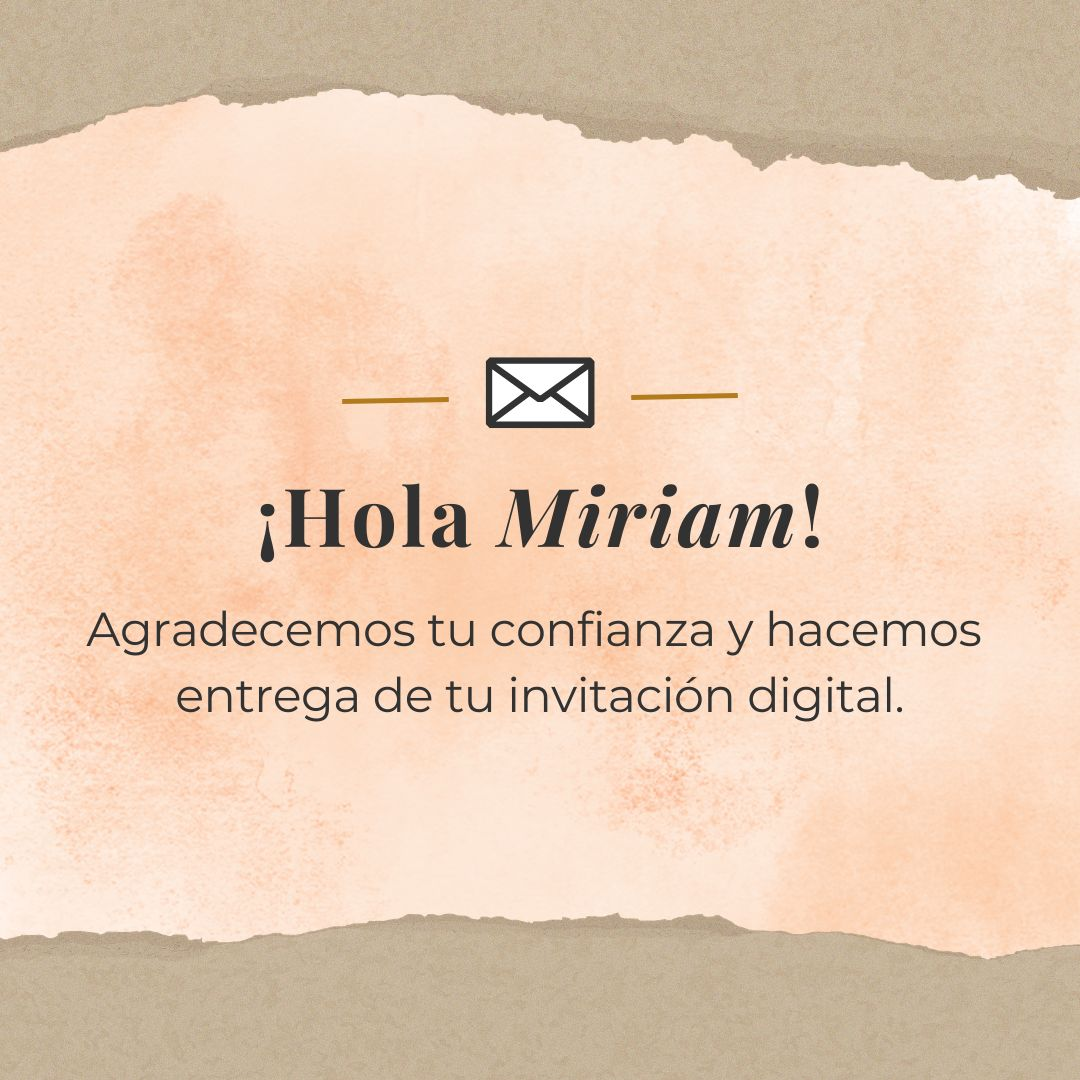
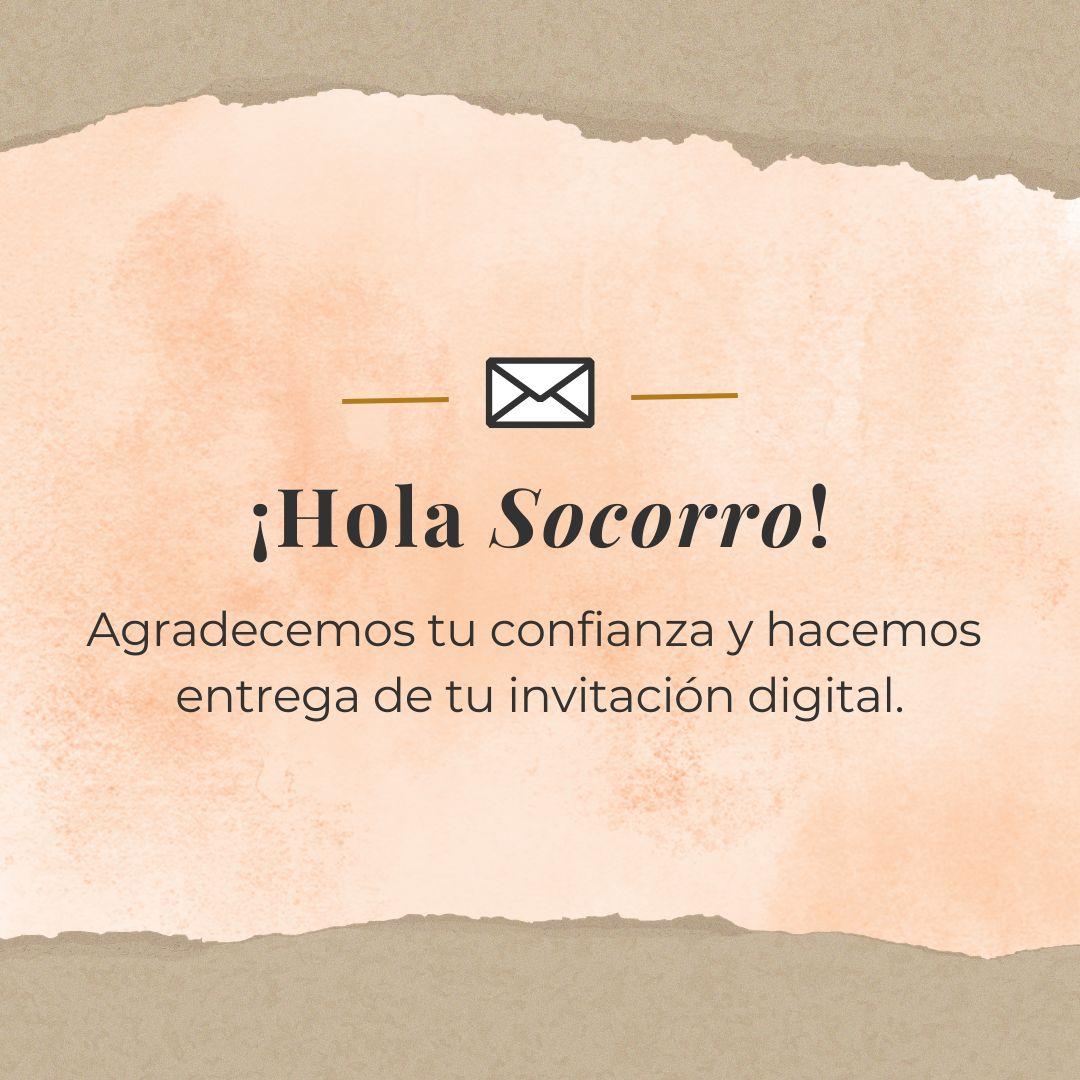
Add files via upload

Changed region(s): [[0.2139, 0.4278, 0.7639, 0.5194]]

diff --git a/index.html b/index.html
@@ -11,11 +11,11 @@
         <meta name="description" content="Da click en el enlace para ver tu invitación."/>
         <meta property="og:locale" content="es_ES"/>
         <meta property="og:type" content="website"/>
-        <meta property="og:title" content="¡Hola Miriam!"/>
+        <meta property="og:title" content="¡Hola Socorro!"/>
         <meta property="og:description" content="Da click en el enlace para ver tu invitación."/>
-        <meta property="og:url" content="https://my-birthday.github.io/edwinykevin/index.html"/>
+        <meta property="og:url" content="https://my-birthday.github.io/20aniversariocorazondemaria/index.html"/>
         <meta property="article:modified_time" content="2023-02-19T17:24:46+00:00"/>
-        <meta property="og:image" content="https://my-birthday.github.io/edwinykevin/img/portadaMensaje.jpg"/>
+        <meta property="og:image" content="https://my-birthday.github.io/20aniversariocorazondemaria/img/portadaMensaje.jpg"/>
         <meta property="og:image:width" content="1080"/>
         <meta property="og:image:height" content="1080"/>
         <meta property="og:image:type" content="image/jpeg"/>
@@ -26,49 +26,49 @@
       "@graph": [
           {
               "@type": "Organization",
-              "@id": "https://my-birthday.github.io/edwinykevin/index.html/#/schema/Organization/1",
-              "name": "¡Hola Miriam!",
-              "url": "https://my-birthday.github.io/edwinykevin/index.html",
+              "@id": "https://my-birthday.github.io/20aniversariocorazondemaria/index.html/#/schema/Organization/1",
+              "name": "¡Hola Socorro!",
+              "url": "https://my-birthday.github.io/20aniversariocorazondemaria/index.html",
               "sameAs": [
               ],
               "logo": {
                   "@type": "ImageObject",
-                  "@id": "https://my-birthday.github.io/edwinykevin/img/portadaMensaje.jpg",
-                  "url": "https://my-birthday.github.io/edwinykevin/img/portadaMensaje.jpg",
-                  "contentUrl": "https://my-birthday.github.io/edwinykevin/img/portadaMensaje.jpg",
+                  "@id": "https://my-birthday.github.io/20aniversariocorazondemaria/img/portadaMensaje.jpg",
+                  "url": "https://my-birthday.github.io/20aniversariocorazondemaria/img/portadaMensaje.jpg",
+                  "contentUrl": "https://my-birthday.github.io/20aniversariocorazondemaria/img/portadaMensaje.jpg",
                   "width": 1080,
                   "height": 1080,
                   "caption": "Example Image"
               },
               "image": {
-                  "@id": "https://my-birthday.github.io/edwinykevin/img/portadaMensaje.jpg"
+                  "@id": "https://my-birthday.github.io/20aniversariocorazondemaria/img/portadaMensaje.jpg"
               }
           },
           {
               "@type": "WebSite",
-              "@id": "https://my-birthday.github.io/edwinykevin/index.html/#/schema/WebSite/1",
-              "url": "https://my-birthday.github.io/edwinykevin/index.html",
-              "name": "¡Hola Miriam!",
+              "@id": "https://my-birthday.github.io/20aniversariocorazondemaria/index.html/#/schema/WebSite/1",
+              "url": "https://my-birthday.github.io/20aniversariocorazondemaria/index.html",
+              "name": "¡Hola Socorro!",
               "publisher": {
-                  "@id": "https://my-birthday.github.io/edwinykevin/index.html/#/schema/Organization/1"
+                  "@id": "https://my-birthday.github.io/20aniversariocorazondemaria/index.html/#/schema/Organization/1"
               },
               "potentialAction": {
                   "@type": "SearchAction",
-                  "target": "https://my-birthday.github.io/edwinykevin/index.html/?s={search_term_string}",
+                  "target": "https://my-birthday.github.io/20aniversariocorazondemaria/index.html/?s={search_term_string}",
                   "query-input": "required name=search_term_string"
               }
           },
           {
               "@type": "WebPage",
-              "@id": "https://my-birthday.github.io/edwinykevin/index.html",
-              "url": "https://my-birthday.github.io/edwinykevin/index.html",
+              "@id": "https://my-birthday.github.io/20aniversariocorazondemaria/index.html",
+              "url": "https://my-birthday.github.io/20aniversariocorazondemaria/index.html",
               "inLanguage": "es",
               "name": "Example Page",
               "isPartOf": {
-                  "@id": "https://my-birthday.github.io/edwinykevin/index.html/#/schema/WebSite/1"
+                  "@id": "https://my-birthday.github.io/20aniversariocorazondemaria/index.html/#/schema/WebSite/1"
               },
               "about": {
-                  "@id": "https://my-birthday.github.io/edwinykevin/index.html/#/schema/Organization/1"
+                  "@id": "https://my-birthday.github.io/20aniversariocorazondemaria/index.html/#/schema/Organization/1"
               },
               "datePublished": "2015-09-14T08:13:22+00:00",
               "dateModified": "2019-03-28T12:46:37+00:00",
@@ -78,8 +78,8 @@
   }
         </script>
 
-         <link rel="alternate" type="application/rss+xml" title=" &raquo; Feed" href="https://my-birthday.github.io/edwinykevin/index.html/feed/"/>
-        <link rel="alternate" type="application/rss+xml" title=" &raquo; Feed de los comentarios" href="https://my-birthday.github.io/edwinykevin/index.html/comments/feed/"/>
+         <link rel="alternate" type="application/rss+xml" title=" &raquo; Feed" href="https://my-birthday.github.io/20aniversariocorazondemaria/index.html/feed/"/>
+        <link rel="alternate" type="application/rss+xml" title=" &raquo; Feed de los comentarios" href="https://my-birthday.github.io/20aniversariocorazondemaria/index.html/comments/feed/"/>
         
     <link rel="stylesheet" href="https://stackpath.bootstrapcdn.com/bootstrap/4.2.1/css/bootstrap.min.css" integrity="sha384-GJzZqFGwb1QTTN6wy59ffF1BuGJpLSa9DkKMp0DgiMDm4iYMj70gZWKYbI706tWS" crossorigin="anonymous">
     <link rel="stylesheet" href="css/index.css">
@@ -100,7 +100,7 @@
 
 
 </script>
-    <title>¡Hola Miriam!</title>
+    <title>¡Hola Socorro!</title>
     <link rel="shortcut icon" href="img/CODIGO LOGOTIPO.png"/>
 </head>
 
@@ -117,7 +117,7 @@
         
    
              <p id="icono" style="font-size: 35px; color:#FCD4B7"><i class="far fa-envelope"></i></p>
-            <h4 class='cliente col-12 col-md-5 col-lg-12 text-center mb-0 mt-2'><b>¡Hola <i>Miriam </i>!</b></h4>
+            <h4 class='cliente col-12 col-md-5 col-lg-12 text-center mb-0 mt-2'><b>¡Hola <i>Socorro </i>!</b></h4>
           <h5 class='nombres1 mb-0 col-lg-12 text-center mt-4' ><b>Agradecemos tu confianza y hacemos entrega de tu invitación digital.</b></h5>  
 
      
@@ -133,7 +133,7 @@
 <h5 class='nombres1 mb-0 col-lg-12 text-center mt-4' ><b>¡Copia el link (URL) y pégalo en la red social de tu preferencia!</b></h5>  
 
 <div class="row justify-content-center" style="margin:0 auto;">
-    <input class="mt-3 col-6" type="text" value="https://my-birthday.github.io/edwinykevin/inicio.html" id="target1" readonly>
+    <input class="mt-3 col-6" type="text" value="https://my-birthday.github.io/20aniversariocorazondemaria/inicio.html" id="target1" readonly>
 <button id="boton" class="example2 col-4 col-md-3 mt-3" onclick="copiar()">Copiar</button>
 </div>
 

diff --git a/inicio.html b/inicio.html
@@ -11,11 +11,11 @@
         <meta name="description" content="Te invitamos a ser parte de este momento tan especial."/>
         <meta property="og:locale" content="es_ES"/>
         <meta property="og:type" content="website"/>
-        <meta property="og:title" content="Edwin y Kevin - ¡Nuestros 8 Años!"/>
+        <meta property="og:title" content="20 Aniversario - ¡Danza Azteca Corazón de María y Cumpleañeros!"/>
         <meta property="og:description" content="Te invitamos a ser parte de este momento tan especial."/>
-        <meta property="og:url" content="https://my-birthday.github.io/edwinykevin/inicio.html"/>
+        <meta property="og:url" content="https://my-birthday.github.io/20aniversariocorazondemaria/inicio.html"/>
         <meta property="article:modified_time" content="2023-02-19T17:24:46+00:00"/>
-        <meta property="og:image" content="https://my-birthday.github.io/edwinykevin/img/portadaEnviar.jpg"/>
+        <meta property="og:image" content="https://my-birthday.github.io/20aniversariocorazondemaria/img/portadaEnviar.jpg"/>
         <meta property="og:image:width" content="1080"/>
         <meta property="og:image:height" content="1400"/>
         <meta property="og:image:type" content="image/jpeg"/>
@@ -26,49 +26,49 @@
       "@graph": [
           {
               "@type": "Organization",
-              "@id": "https://my-birthday.github.io/edwinykevin/inicio.html/#/schema/Organization/1",
-              "name": "Edwin y Kevin - ¡Nuestros 8 Años!",
-              "url": "https://my-birthday.github.io/edwinykevin/inicio.html",
+              "@id": "https://my-birthday.github.io/20aniversariocorazondemaria/inicio.html/#/schema/Organization/1",
+              "name": "20 Aniversario - ¡Danza Azteca Corazón de María y Cumpleañeros!",
+              "url": "https://my-birthday.github.io/20aniversariocorazondemaria/inicio.html",
               "sameAs": [
               ],
               "logo": {
                   "@type": "ImageObject",
-                  "@id": "https://my-birthday.github.io/edwinykevin/img/portadaEnviar.jpg",
-                  "url": "https://my-birthday.github.io/edwinykevin/img/portadaEnviar.jpg",
-                  "contentUrl": "https://my-birthday.github.io/edwinykevin/img/portadaEnviar.jpg",
+                  "@id": "https://my-birthday.github.io/20aniversariocorazondemaria/img/portadaEnviar.jpg",
+                  "url": "https://my-birthday.github.io/20aniversariocorazondemaria/img/portadaEnviar.jpg",
+                  "contentUrl": "https://my-birthday.github.io/20aniversariocorazondemaria/img/portadaEnviar.jpg",
                   "width": 1080,
                   "height": 1400,
                   "caption": "Example Image"
               },
               "image": {
-                  "@id": "https://my-birthday.github.io/edwinykevin/img/portadaEnviar.jpg"
+                  "@id": "https://my-birthday.github.io/20aniversariocorazondemaria/img/portadaEnviar.jpg"
               }
           },
           {
               "@type": "WebSite",
-              "@id": "https://my-birthday.github.io/edwinykevin/inicio.html/#/schema/WebSite/1",
-              "url": "https://my-birthday.github.io/edwinykevin/inicio.html",
-              "name": "Edwin y Kevin - ¡Nuestros 8 Años!",
+              "@id": "https://my-birthday.github.io/20aniversariocorazondemaria/inicio.html/#/schema/WebSite/1",
+              "url": "https://my-birthday.github.io/20aniversariocorazondemaria/inicio.html",
+              "name": "20 Aniversario - ¡Danza Azteca Corazón de María y Cumpleañeros!",
               "publisher": {
-                  "@id": "https://my-birthday.github.io/edwinykevin/inicio.html/#/schema/Organization/1"
+                  "@id": "https://my-birthday.github.io/20aniversariocorazondemaria/inicio.html/#/schema/Organization/1"
               },
               "potentialAction": {
                   "@type": "SearchAction",
-                  "target": "https://my-birthday.github.io/edwinykevin/inicio.html/?s={search_term_string}",
+                  "target": "https://my-birthday.github.io/20aniversariocorazondemaria/inicio.html/?s={search_term_string}",
                   "query-input": "required name=search_term_string"
               }
           },
           {
               "@type": "WebPage",
-              "@id": "https://my-birthday.github.io/edwinykevin/inicio.html",
-              "url": "https://my-birthday.github.io/edwinykevin/inicio.html",
+              "@id": "https://my-birthday.github.io/20aniversariocorazondemaria/inicio.html",
+              "url": "https://my-birthday.github.io/20aniversariocorazondemaria/inicio.html",
               "inLanguage": "es",
               "name": "Example Page",
               "isPartOf": {
-                  "@id": "https://my-birthday.github.io/edwinykevin/inicio.html/#/schema/WebSite/1"
+                  "@id": "https://my-birthday.github.io/20aniversariocorazondemaria/inicio.html/#/schema/WebSite/1"
               },
               "about": {
-                  "@id": "https://my-birthday.github.io/edwinykevin/inicio.html/#/schema/Organization/1"
+                  "@id": "https://my-birthday.github.io/20aniversariocorazondemaria/inicio.html/#/schema/Organization/1"
               },
               "datePublished": "2015-09-14T08:13:22+00:00",
               "dateModified": "2019-03-28T12:46:37+00:00",
@@ -78,8 +78,8 @@
   }
         </script>
 
-         <link rel="alternate" type="application/rss+xml" title=" &raquo; Feed" href="https://my-birthday.github.io/edwinykevin/inicio.html/feed/"/>
-        <link rel="alternate" type="application/rss+xml" title=" &raquo; Feed de los comentarios" href="https://my-birthday.github.io/edwinykevin/inicio.html/comments/feed/"/>
+         <link rel="alternate" type="application/rss+xml" title=" &raquo; Feed" href="https://my-birthday.github.io/20aniversariocorazondemaria/inicio.html/feed/"/>
+        <link rel="alternate" type="application/rss+xml" title=" &raquo; Feed de los comentarios" href="https://my-birthday.github.io/20aniversariocorazondemaria/inicio.html/comments/feed/"/>
         
     <link rel="stylesheet" href="https://stackpath.bootstrapcdn.com/bootstrap/4.2.1/css/bootstrap.min.css" integrity="sha384-GJzZqFGwb1QTTN6wy59ffF1BuGJpLSa9DkKMp0DgiMDm4iYMj70gZWKYbI706tWS" crossorigin="anonymous">
     <link rel="stylesheet" href="css/demo001.css">
@@ -265,7 +265,7 @@
     }); 
 });
 </script>
-    <title>20 ANIVERSARIO</title>
+    <title>20 Aniversario - ¡Danza Azteca Corazón de María y Cumpleañeros!</title>
     <link rel="shortcut icon" href="../img/CODIGO LOGOTIPO.png"/>
 </head>
 <!--<body>
